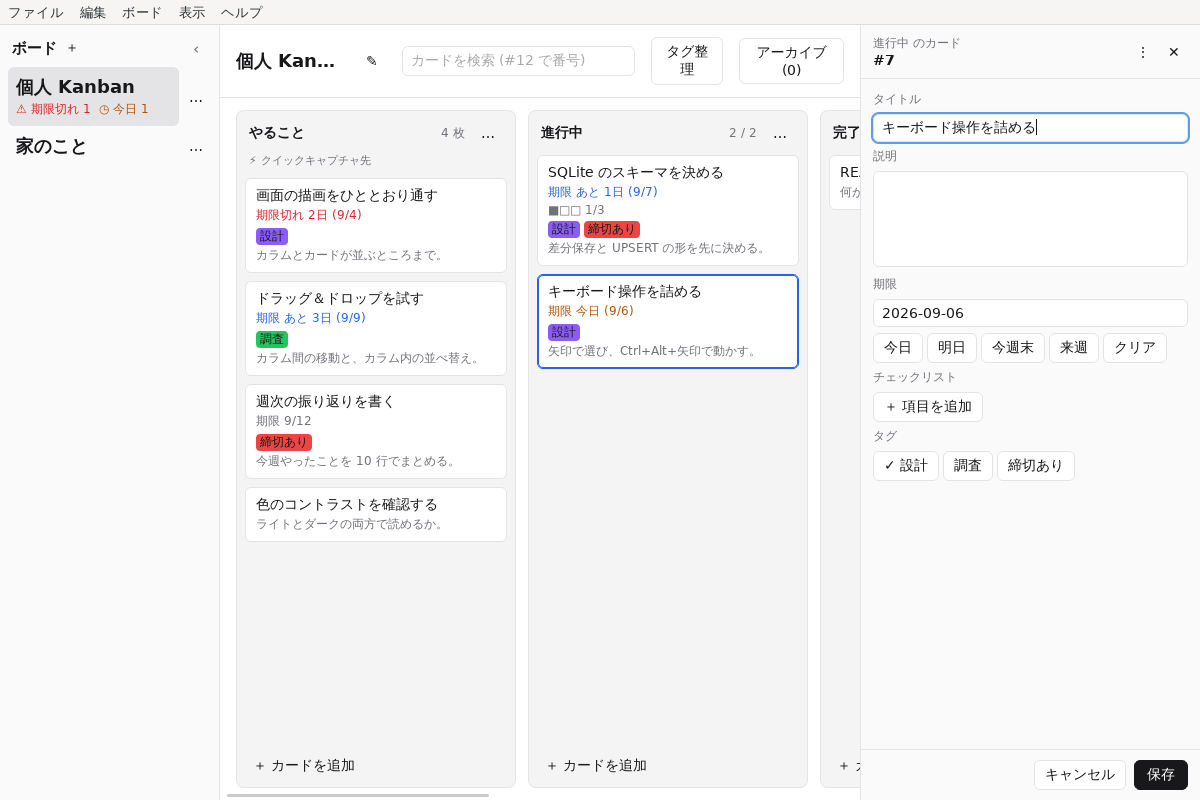
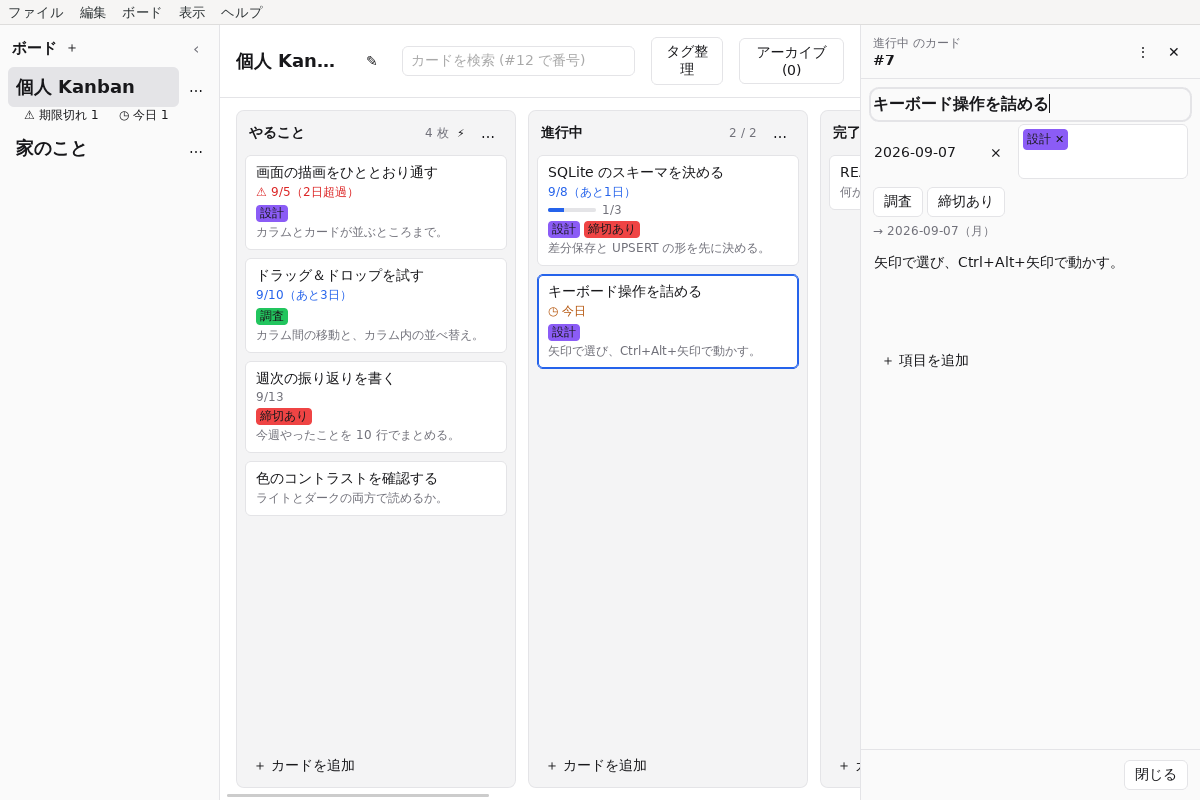
Lay the card panel out like the card it edits (#164)
The panel stacked label-and-field pairs the way a settings form does,
which gave a due date and a couple of tags four lines each and pushed
the description and the checklist below the fold. It also spelled out
every label next to a field whose placeholder said the same word.

It now reads top to bottom the way the card does: the title, a line
carrying the due date and the tags, then the description and the
checklist. Names live in the placeholders and in aria-label, and every
field draws its border only while it is being used.

Closes #144

Claude-Session: https://claude.ai/code/session_01KEKZkBiCpygn66i3wxmnac

diff --git a/web/src/panel/CardPanel.tsx b/web/src/panel/CardPanel.tsx
@@ -224,7 +224,7 @@ export function CardPanel({
   function change(update: (current: CardDraft) => CardDraft): void {
     // **いま確定に使う下書きから作ります**（`latest`）。描画のときの下書きから
     // 作ると、確定が飛んでいる間に押された分が、返ってきた項目 ID を落として
-    // しまいます——その次の確定が、もう無い項目を指すことになります。
+    // しまいます——その次の確定が、もう無い項目を指すことになります（#141）。
     const next = update(latest.current);
     edit(next);
     void commit(next);
@@ -369,15 +369,16 @@ export function CardPanel({
         )}
       </header>
 
+      {/* 並びは「カードを大きくしたもの」です（#144）——タイトル、期限とタグの
+          1 行、説明、チェックリスト。見出しは出さず、欄の名前は placeholder と
+          `aria-label` が言います（`docs/DESIGN.md`「案内は placeholder で出す」）。 */}
       <div className="panel-body">
-        <label className="field-label" htmlFor="card-title">
-          タイトル
-        </label>
         <input
           id="card-title"
           className="field-input card-title-input"
+          aria-label="タイトル"
           value={draft.title}
-          placeholder="カードのタイトル"
+          placeholder="タイトル"
           autoFocus
           onChange={(event) => {
             edit({ ...latest.current, title: event.target.value });
@@ -400,9 +401,76 @@ export function CardPanel({
         )}
         <FieldFailure failure={failed} field="cardTitle" />
 
-        <label className="field-label" htmlFor="card-description">
-          説明
-        </label>
+        {/* 期限とタグは、タイトルの直下に 1 行で並べます（#144）。カード表面の
+            メタ情報と同じ並びで、読む順が画面とパネルで変わりません。期限・
+            チェックリスト・タグは新しいカードにも出します（#127）。 */}
+        <div className="card-meta">
+          {/* 期限は文字で打ちます（#134、ADR 0031）。`type="date"` をやめたのは、
+              カレンダーの見た目と操作が webview ごとに違い、キーボードから速く
+              打てないためです。**読み方は Rust に 1 つだけ**——「明日」が何日かを
+              ここでも数えると、`due_statuses` を出した判定と食い違います。 */}
+          {/* 外す × は欄に重ねず右へ並べます。期限が入っているときだけ出すので、
+              期限なしのカードでは欄が入力 1 つになります（#128）。 */}
+          <div className="due-field">
+            <input
+              id="card-due-date"
+              type="text"
+              className="field-input card-due-input"
+              aria-label="期限"
+              placeholder="期限（9/12、明日、金、+3）"
+              autoComplete="off"
+              value={draft.dueDate}
+              onChange={(event) => {
+                edit({ ...latest.current, dueDate: event.target.value });
+              }}
+              onBlur={() => {
+                if (editing.kind === "card") void commit();
+              }}
+              // 1 行の欄なので `Enter` で確定（`docs/DESIGN.md`）。
+              onKeyDown={(event) => {
+                if (event.key !== "Enter" || isComposing(event.nativeEvent)) return;
+                event.preventDefault();
+                if (editing.kind === "card") void commit();
+              }}
+            />
+            {draft.dueDate !== "" && (
+              <button
+                type="button"
+                className="ghost due-clear"
+                aria-label="期限を外す"
+                title="期限を外す"
+                onClick={() => {
+                  change((current) => ({ ...current, dueDate: "" }));
+                }}
+              >
+                ×
+              </button>
+            )}
+          </div>
+          <TagsInput
+            tags={board.tags}
+            selected={draft.tagIds}
+            failure={failed}
+            // タグは付け外しした瞬間に確定します（#141）。右クリックメニューから
+            // 付け外しするのと、同じ意味になります。
+            onToggle={(tagId) => {
+              change((current) => ({
+                ...current,
+                tagIds: toggleTag(current.tagIds, tagId),
+              }));
+            }}
+            onCreate={createTag}
+          />
+        </div>
+        {/* 打った文字がどう読まれたかを、確定する前に見せます。読めない間は
+            何も出しません——打っている途中の文字はまだ間違いではないので、
+            断りは確定のときに欄の脇へ出ます。**メタ行の外に置きます**——中に
+            置くと、期限とタグが 1 行に収まりません（#144）。 */}
+        {duePreview !== null && (
+          <p className="field-note due-preview">→ {duePreview.label}</p>
+        )}
+        <FieldFailure failure={failed} field="dueDate" />
+
         <Description
           id="card-description"
           value={draft.description}
@@ -421,68 +489,17 @@ export function CardPanel({
           }
         />
 
-        {/* 期限・チェックリスト・タグは、新しいカードにも出します（#127）。
-            `add_card` が下書きを丸ごと受けるので、足してから開き直す往復が要りません。 */}
-        <label className="field-label" htmlFor="card-due-date">
-          期限
-        </label>
-        {/* 期限は文字で打ちます（#134、ADR 0031）。`type="date"` をやめたのは、
-            カレンダーの見た目と操作が webview ごとに違い、キーボードから速く
-            打てないためです。**読み方は Rust に 1 つだけ**——「明日」が何日かを
-            ここでも数えると、`due_statuses` を出した判定と食い違います。 */}
-        {/* 外す × は欄に重ねず右へ並べます。期限が入っているときだけ出すので、
-            期限なしのカードでは欄が入力 1 つになります（#128）。 */}
-        <div className="due-field">
-          <input
-            id="card-due-date"
-            type="text"
-            className="field-input card-due-input"
-            placeholder="9/12、明日、金、+3"
-            autoComplete="off"
-            value={draft.dueDate}
-            onChange={(event) => {
-              edit({ ...latest.current, dueDate: event.target.value });
-            }}
-            onBlur={() => {
-              if (editing.kind === "card") void commit();
-            }}
-            // 1 行の欄なので `Enter` で確定（`docs/DESIGN.md`）。
-            onKeyDown={(event) => {
-              if (event.key !== "Enter" || isComposing(event.nativeEvent)) return;
-              event.preventDefault();
-              if (editing.kind === "card") void commit();
-            }}
-          />
-          {draft.dueDate !== "" && (
-            <button
-              type="button"
-              className="ghost due-clear"
-              aria-label="期限を外す"
-              title="期限を外す"
-              onClick={() => {
-                change((current) => ({ ...current, dueDate: "" }));
-              }}
-            >
-              ×
-            </button>
-          )}
-        </div>
-        {/* 打った文字がどう読まれたかを、確定する前に見せます。読めない間は
-            何も出しません——打っている途中の文字はまだ間違いではないので、
-            断りは保存のときに欄の脇へ出ます。 */}
-        {duePreview !== null && (
-          <p className="field-note due-preview">→ {duePreview.label}</p>
-        )}
-        <FieldFailure failure={failed} field="dueDate" />
 
-        <span className="field-label">チェックリスト</span>
+
         <FieldFailure failure={failed} field="checklistItem" />
+        {/* 見出しは出しませんが、まとまりの名前は読み上げに残します（#144）。 */}
         {/* 掴んで並べ替える（#113）。盤面とは別の `DndContext` です——
             パネルは盤面の外にあり、落とし先の候補が混ざる意味がありません。
             **何番目に落ちたかを決めるのは `draft.ts`** で、ライブラリに
             任せるのは掴む・追う・落とすまで（`docs/DESIGN.md`
             「ドラッグ＆ドロップ」）。動かすのは下書きの配列だけなので、
             落とした瞬間に Rust は呼びません。 */}
+        <div className="checklist" role="group" aria-label="チェックリスト">
         <DndContext
           sensors={checklistSensors}
           collisionDetection={closestCenter}
@@ -570,7 +587,7 @@ export function CardPanel({
         <div className="button-row">
           <button
             type="button"
-            className="secondary add-checklist-item"
+            className="ghost add-checklist-item"
             onClick={() => {
               // 名前を入れないままにした行は、保存のときに Rust が落とします
               // （#114）。消しにいかなくても保存できます。
@@ -584,24 +601,8 @@ export function CardPanel({
             ＋ 項目を追加
           </button>
         </div>
+        </div>
 
-        <span className="field-label" id="card-tags-label">
-          タグ
-        </span>
-        <TagsInput
-          tags={board.tags}
-          selected={draft.tagIds}
-          failure={failed}
-          // タグは付け外しした瞬間に確定します（#141）。右クリックメニューから
-          // 付け外しするのと、同じ意味になります。
-          onToggle={(tagId) => {
-            change((current) => ({
-              ...current,
-              tagIds: toggleTag(current.tagIds, tagId),
-            }));
-          }}
-          onCreate={createTag}
-        />
       </div>
 
       {/* 保存済みのカードには「保存 / キャンセル」がありません（#141、ADR 0032）
@@ -707,7 +708,8 @@ function TagsInput({
           placeholder={
             chips.length === 0 ? "タグを打って Enter（無ければ作ります）" : ""
           }
-          aria-labelledby="card-tags-label"
+          // 見出しを出さなくなったので、名前はここで持ちます（#144）。
+          aria-label="タグ"
           onChange={(event) => {
             setTyped(event.target.value);
           }}

diff --git a/web/src/styles.css b/web/src/styles.css
@@ -609,6 +609,57 @@ button.danger {
   font: inherit;
 }
 
+/* パネルは「カードを大きくしたもの」（#144）。タイトルは見出し無しの大きい欄で、
+ * 期限とタグはその直下の 1 行。枠は触っているときだけ出す。 */
+.card-title-input {
+  padding: 4px 0;
+  border: 0;
+  background: transparent;
+  font-size: 16px;
+  font-weight: 600;
+}
+
+.card-title-input:focus {
+  outline: 2px solid var(--color-border);
+  outline-offset: 2px;
+}
+
+.card-meta {
+  display: flex;
+  flex-wrap: wrap;
+  align-items: center;
+  gap: 8px;
+}
+
+.card-meta > .due-field {
+  flex: 0 1 auto;
+}
+
+.card-meta > .due-field > .card-due-input {
+  /* パネルは 340px。タグと 1 行に並ぶ幅にする（#144）。 */
+  width: 7.5em;
+  min-width: 0;
+  /* タイトルや説明と同じく、枠は触っているあいだだけ。 */
+  border-color: transparent;
+  background: transparent;
+  padding-left: 0;
+}
+
+.card-meta > .due-field > .card-due-input:focus {
+  border-color: var(--color-border);
+  background: var(--color-input-background);
+  padding-left: 8px;
+}
+
+.card-meta > .tags-input {
+  flex: 1 1 120px;
+  min-width: 0;
+}
+
+.checklist {
+  display: contents;
+}
+
 /* 期限の欄。外す × は入力に重ねず右へ並べる（#128）——`type="date"` が
  * 右端に出すカレンダーアイコンの位置が webview ごとに違うため。 */
 .due-field {
@@ -843,6 +894,34 @@ button.danger {
  * あるので、不透明な色で塗ると下の文字が隠れます。 */
 .description-field > .card-description-input::selection {
   background: var(--color-selection);
+}
+
+/* パネルの中では、説明も枠なしにする（#144）。触っているあいだだけ枠が出る。
+ * 下地は `.description-field` が持っているので、そちらも透かす。 */
+.panel-body > .description-field {
+  background: transparent;
+}
+
+.panel-body > .description-field > .card-description-input {
+  border-color: transparent;
+  padding-left: 0;
+}
+
+.panel-body > .description-field > .description-layer {
+  padding-left: 0;
+}
+
+.panel-body > .description-field:focus-within {
+  background: var(--color-input-background);
+}
+
+.panel-body > .description-field:focus-within > .card-description-input {
+  border-color: var(--color-border);
+  padding-left: 8px;
+}
+
+.panel-body > .description-field:focus-within > .description-layer {
+  padding-left: 8px;
 }
 
 .description-layer {

diff --git a/web/e2e/edit.spec.ts b/web/e2e/edit.spec.ts
@@ -269,6 +269,34 @@ test("選んだカードは Enter で開き、Escape で閉じる", async ({ pag
   await expect(page.locator(".card-panel")).toBeHidden();
 });
 
+// ---------------------------------------------------------------- パネルの並び
+
+/// パネルは「カードを大きくしたもの」（#144）。上から順に、タイトル、期限と
+/// タグの 1 行、説明、チェックリスト。見出しは出さず、名前は読み上げに残す。
+test("パネルの上の 2 行に、タイトルと期限とタグが出る", async ({ page }) => {
+  await openBoard(page);
+  await openFirstCard(page);
+
+  const title = page.getByRole("textbox", { name: "タイトル" });
+  const due = page.getByRole("textbox", { name: "期限" });
+  const tags = page.getByRole("textbox", { name: "タグ" });
+  await expect(title).toBeVisible();
+  await expect(due).toBeVisible();
+  await expect(tags).toBeVisible();
+
+  // 期限とタグは同じ行。タイトルはその上。
+  const titleBox = await title.boundingBox();
+  const dueBox = await due.boundingBox();
+  const tagsBox = await tags.boundingBox();
+  expect(dueBox?.y).toBeGreaterThan(titleBox?.y ?? 0);
+  expect(Math.abs((dueBox?.y ?? 0) - (tagsBox?.y ?? 0))).toBeLessThan(
+    (dueBox?.height ?? 0) + 4,
+  );
+
+  // 見出しの文字は出さない（名前は placeholder と aria-label が言う）。
+  await expect(page.locator(".panel-body .field-label")).toHaveCount(0);
+});
+
 // ------------------------------------------------ 欄ごとに確定する（#141）
 
 /// 保存済みのカードは、欄を離れた時点で確定します（ADR 0032）。押すものは

diff --git a/web/src/panel/Description.tsx b/web/src/panel/Description.tsx
@@ -107,8 +107,9 @@ export function Description({ id, value, platform, onChange, onCommit }: Props) 
         id={id}
         ref={input}
         className="field-input card-description-input"
+        aria-label="説明"
         value={value}
-        placeholder="任意。詳しいことがあれば"
+        placeholder="説明（任意）"
         rows={4}
         title={`${modifier} を押しながらクリックすると、リンクを開きます`}
         onChange={(event) => {
